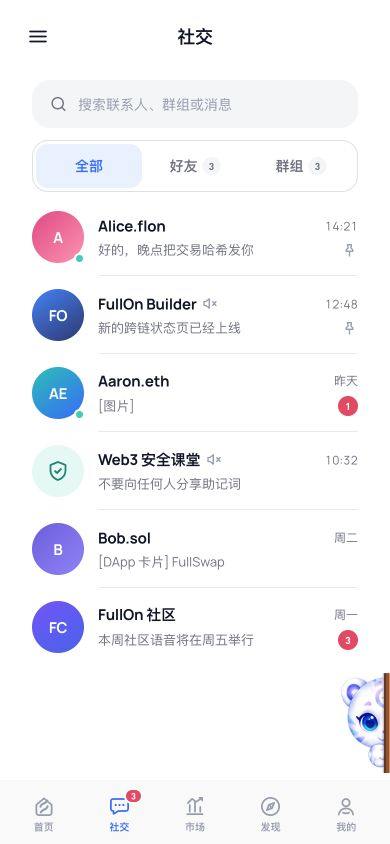
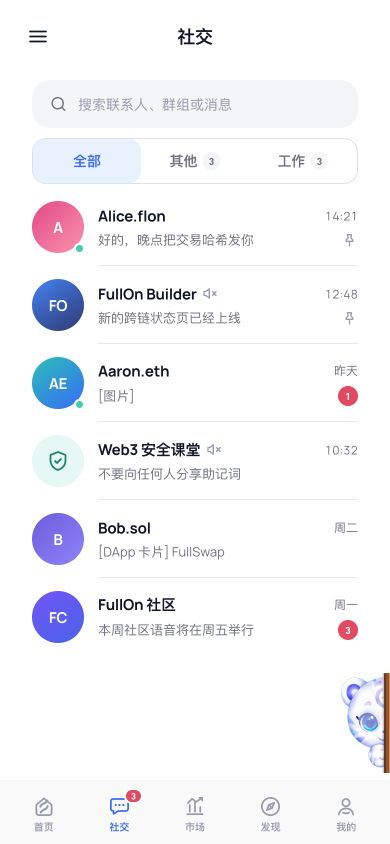
docs(uiux): 社交会话分类改为其他/工作，优化分类栏紧凑度，更新契约测试与预览图

diff --git a/docs/uiux/v1/index.html b/docs/uiux/v1/index.html
@@ -206,46 +206,46 @@
             </form>
             <div class="social-filter-tabs" role="tablist" aria-label="会话分类">
               <button class="is-active" type="button" role="tab" aria-selected="true" tabindex="0" data-social-filter="all">全部</button>
-              <button type="button" role="tab" aria-selected="false" tabindex="-1" data-social-filter="friend">好友<span>3</span></button>
-              <button type="button" role="tab" aria-selected="false" tabindex="-1" data-social-filter="group">群组<span>3</span></button>
+              <button type="button" role="tab" aria-selected="false" tabindex="-1" data-social-filter="other">其他<span>3</span></button>
+              <button type="button" role="tab" aria-selected="false" tabindex="-1" data-social-filter="work">工作<span>3</span></button>
             </div>
             <div class="chat-list social-chat-list" data-social-chat-list>
-              <button class="chat-row is-pinned" type="button" data-chat-row data-chat-kind="friend" data-chat-search="Alice.flon 好的 晚点把交易哈希发你" data-action="toast" data-message="打开 Alice 的会话">
+              <button class="chat-row is-pinned" type="button" data-chat-row data-chat-category="other" data-chat-search="Alice.flon 好的 晚点把交易哈希发你" data-action="toast" data-message="打开 Alice 的会话">
                 <span class="chat-avatar alice-avatar">A<span class="online-dot"></span></span>
                 <span class="chat-copy">
                   <span class="chat-heading"><span class="chat-name"><strong>Alice.flon</strong></span><time datetime="2026-08-07T14:21:00+08:00">14:21</time></span>
                   <span class="chat-preview"><small>好的，晚点把交易哈希发你</small><span class="chat-states"><span class="pin-state" role="img" aria-label="已置顶"><svg class="icon"><use href="#i-pin"></use></svg></span></span></span>
                 </span>
               </button>
-              <button class="chat-row is-pinned" type="button" data-chat-row data-chat-kind="group" data-chat-search="FullOn Builder Leo 新的跨链状态页已经上线" data-action="toast" data-message="打开 FullOn Builder 群聊">
+              <button class="chat-row is-pinned" type="button" data-chat-row data-chat-category="work" data-chat-search="FullOn Builder Leo 新的跨链状态页已经上线" data-action="toast" data-message="打开 FullOn Builder 群聊">
                 <span class="chat-avatar group-avatar">FO</span>
                 <span class="chat-copy">
                   <span class="chat-heading"><span class="chat-name"><strong>FullOn Builder</strong><span class="muted-state" role="img" aria-label="已静音"><svg class="icon"><use href="#i-muted"></use></svg></span></span><time datetime="2026-08-07T12:48:00+08:00">12:48</time></span>
                   <span class="chat-preview"><small>新的跨链状态页已经上线</small><span class="chat-states"><span class="pin-state" role="img" aria-label="已置顶"><svg class="icon"><use href="#i-pin"></use></svg></span></span></span>
                 </span>
               </button>
-              <button class="chat-row" type="button" data-chat-row data-chat-kind="friend" data-chat-search="Aaron.eth 图片 已发送" data-action="toast" data-message="打开 Aaron 的会话">
+              <button class="chat-row" type="button" data-chat-row data-chat-category="other" data-chat-search="Aaron.eth 图片 已发送" data-action="toast" data-message="打开 Aaron 的会话">
                 <span class="chat-avatar aaron-avatar">AE<span class="online-dot"></span></span>
                 <span class="chat-copy">
                   <span class="chat-heading"><span class="chat-name"><strong>Aaron.eth</strong></span><time datetime="2026-08-06">昨天</time></span>
                   <span class="chat-preview"><small>[图片]</small><span class="chat-states"><span class="unread-badge" aria-label="1 条未读消息">1</span></span></span>
                 </span>
               </button>
-              <button class="chat-row" type="button" data-chat-row data-chat-kind="group" data-chat-search="Web3 安全课堂 官方 不要向任何人分享助记词" data-action="toast" data-message="打开 Web3 安全课堂">
+              <button class="chat-row" type="button" data-chat-row data-chat-category="work" data-chat-search="Web3 安全课堂 官方 不要向任何人分享助记词" data-action="toast" data-message="打开 Web3 安全课堂">
                 <span class="chat-avatar safety-avatar"><svg class="icon"><use href="#i-shield"></use></svg></span>
                 <span class="chat-copy">
                   <span class="chat-heading"><span class="chat-name"><strong>Web3 安全课堂</strong><span class="muted-state" role="img" aria-label="已静音"><svg class="icon"><use href="#i-muted"></use></svg></span></span><time datetime="2026-08-07T10:32:00+08:00">10:32</time></span>
                   <span class="chat-preview"><small>不要向任何人分享助记词</small></span>
                 </span>
               </button>
-              <button class="chat-row" type="button" data-chat-row data-chat-kind="friend" data-chat-search="Bob.sol DApp 卡片 FullSwap" data-action="toast" data-message="打开 Bob 的会话">
+              <button class="chat-row" type="button" data-chat-row data-chat-category="other" data-chat-search="Bob.sol DApp 卡片 FullSwap" data-action="toast" data-message="打开 Bob 的会话">
                 <span class="chat-avatar bob-avatar">B</span>
                 <span class="chat-copy">
                   <span class="chat-heading"><span class="chat-name"><strong>Bob.sol</strong></span><time datetime="2026-08-05">周二</time></span>
                   <span class="chat-preview"><small>[DApp 卡片] FullSwap</small></span>
                 </span>
               </button>
-              <button class="chat-row" type="button" data-chat-row data-chat-kind="group" data-chat-search="FullOn 社区 Linda 本周社区语音将在周五举行" data-action="toast" data-message="打开 FullOn 社区">
+              <button class="chat-row" type="button" data-chat-row data-chat-category="work" data-chat-search="FullOn 社区 Linda 本周社区语音将在周五举行" data-action="toast" data-message="打开 FullOn 社区">
                 <span class="chat-avatar community-avatar">FC</span>
                 <span class="chat-copy">
                   <span class="chat-heading"><span class="chat-name"><strong>FullOn 社区</strong></span><time datetime="2026-08-04">周一</time></span>

diff --git a/docs/uiux/v1/ui.js b/docs/uiux/v1/ui.js
@@ -184,7 +184,7 @@
     const query = socialSearchInput?.value.trim().toLocaleLowerCase() || "";
     let visibleCount = 0;
     getSocialChatRows().forEach((row) => {
-      const categoryMatches = socialActiveFilter === "all" || row.dataset.chatKind === socialActiveFilter;
+      const categoryMatches = socialActiveFilter === "all" || row.dataset.chatCategory === socialActiveFilter;
       const searchable = row.dataset.chatSearch?.toLocaleLowerCase() || "";
       const queryMatches = !query || searchable.includes(query);
       const visible = categoryMatches && queryMatches;

diff --git a/docs/uiux/v1/ui.css b/docs/uiux/v1/ui.css
@@ -689,12 +689,12 @@ body {
 .social-filter-tabs {
   display: grid;
   grid-template-columns: repeat(3, minmax(0, 1fr));
-  min-height: 50px;
-  margin: 12px 16px 6px;
-  padding: 3px;
+  min-height: 46px;
+  margin: 10px 16px 4px;
+  padding: 0;
   background: var(--surface);
   border: 1px solid var(--border);
-  border-radius: 16px;
+  border-radius: 14px;
 }
 
 .social-filter-tabs button {
